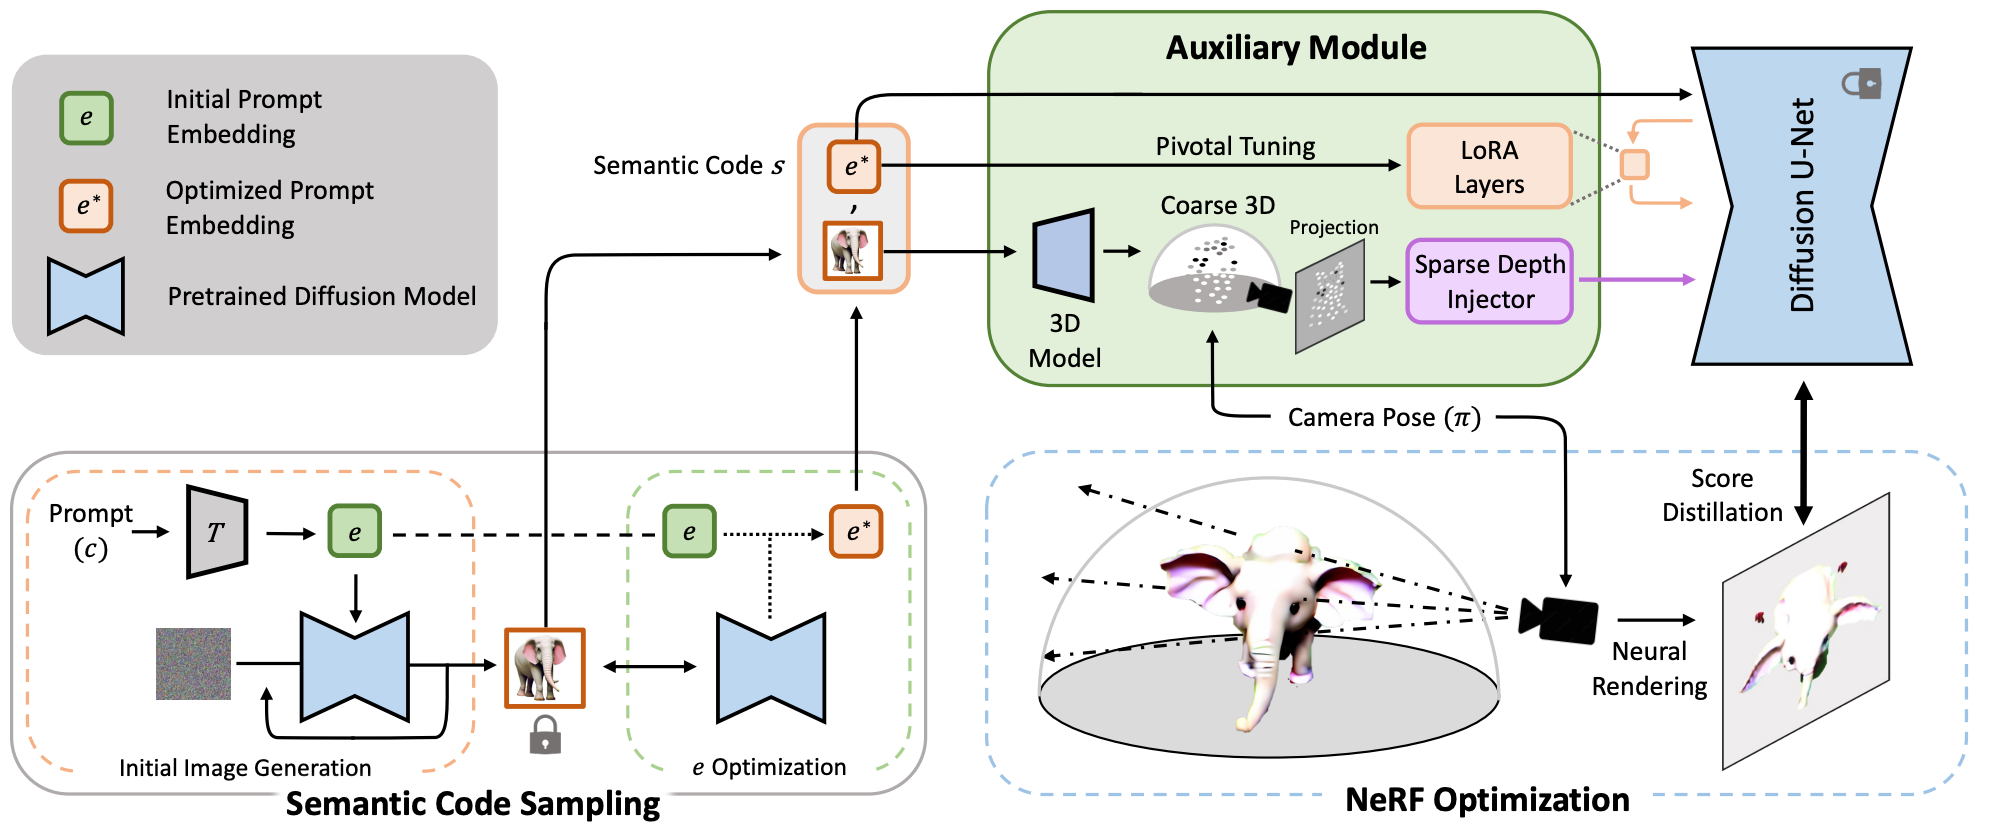
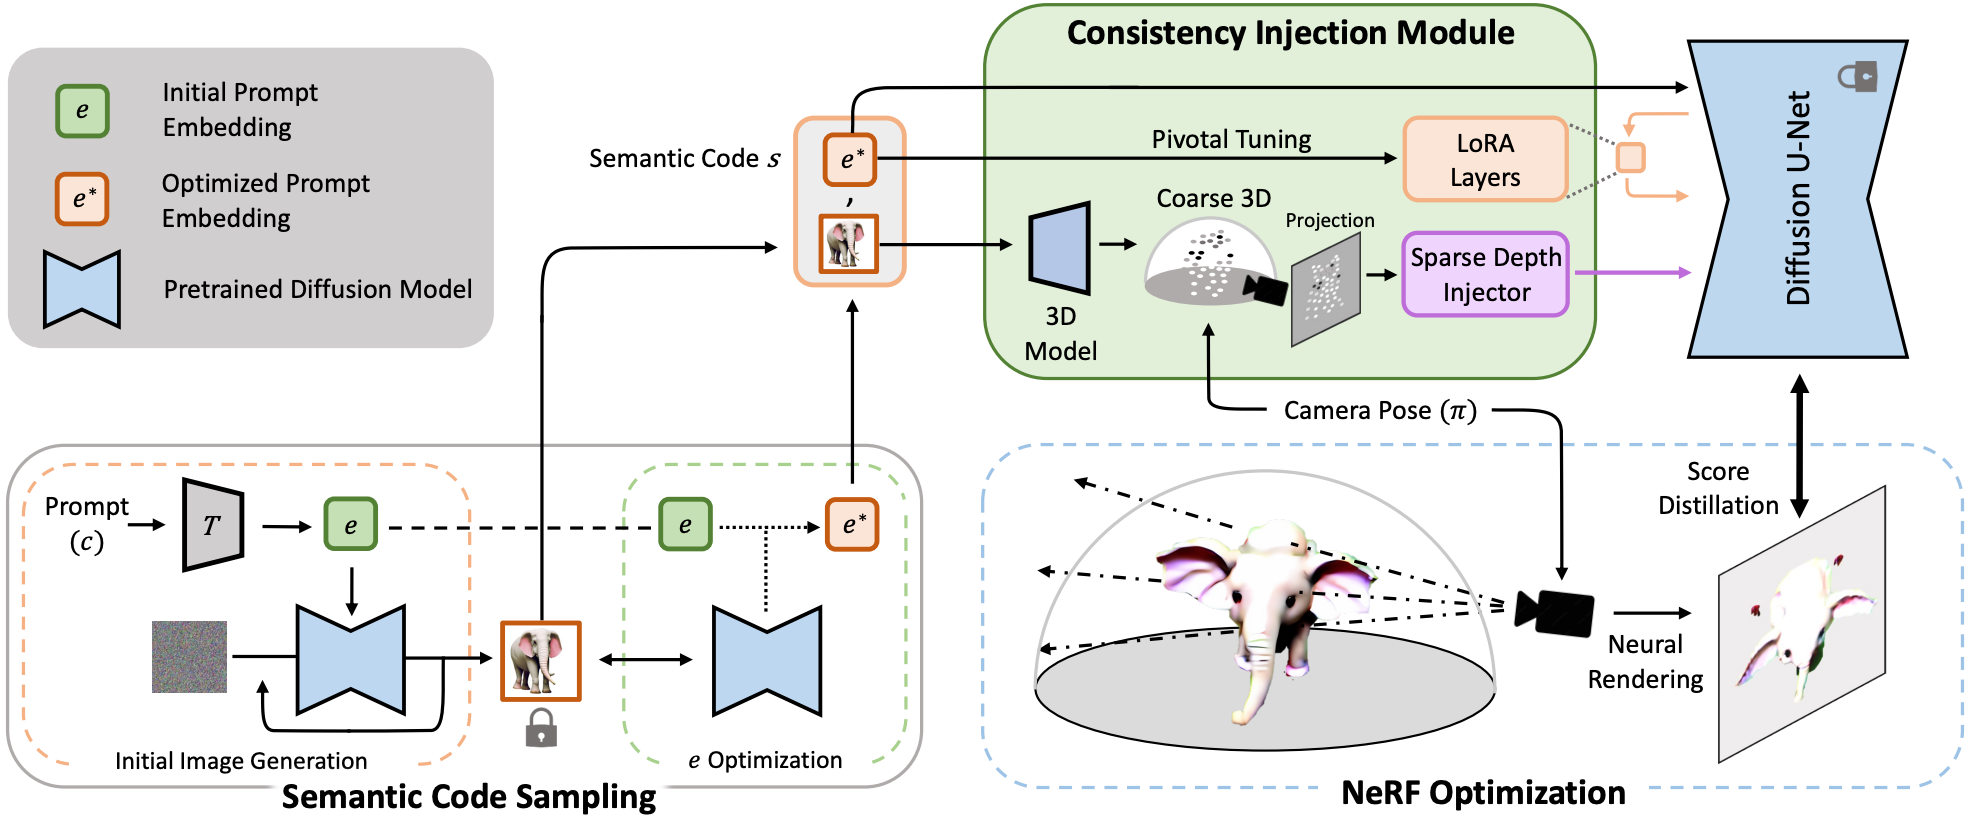
project page update

diff --git a/index.html b/index.html
@@ -222,7 +222,7 @@
         <div class="content has-text-justified">
           <p>
             In the framework, semantic code is sampled to reduce the text prompt ambiguity by generating an image based on the text prompt and then optimizing the prompt’s embedding to match the generated image.
-            Our auxiliary module receives this semantic code to synthesize view-specific depth maps as a condition to the diffusion U-net. The module also consists of a sparse depth injector to implicitly incorporate 3D awareness by utilizing an external 3D prior,
+            Our consistency injection module receives this semantic code to synthesize view-specific depth maps as a condition to the diffusion U-net. The module also consists of a sparse depth injector to implicitly incorporate 3D awareness by utilizing an external 3D prior,
             and LoRA layers to maintain semantic consistency.
           </p>
         </div>
